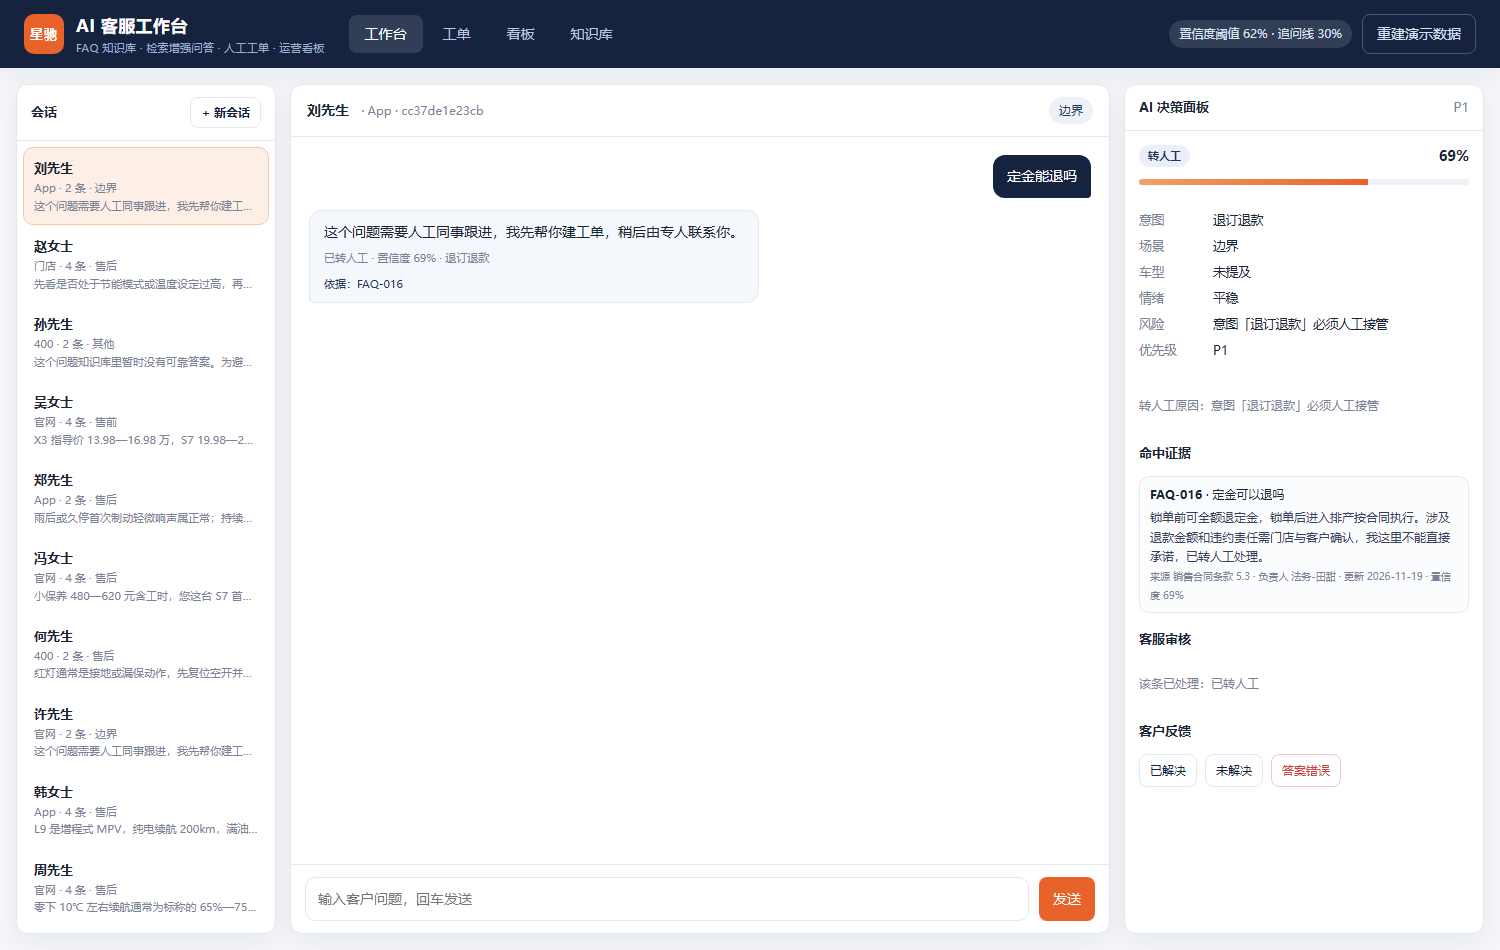
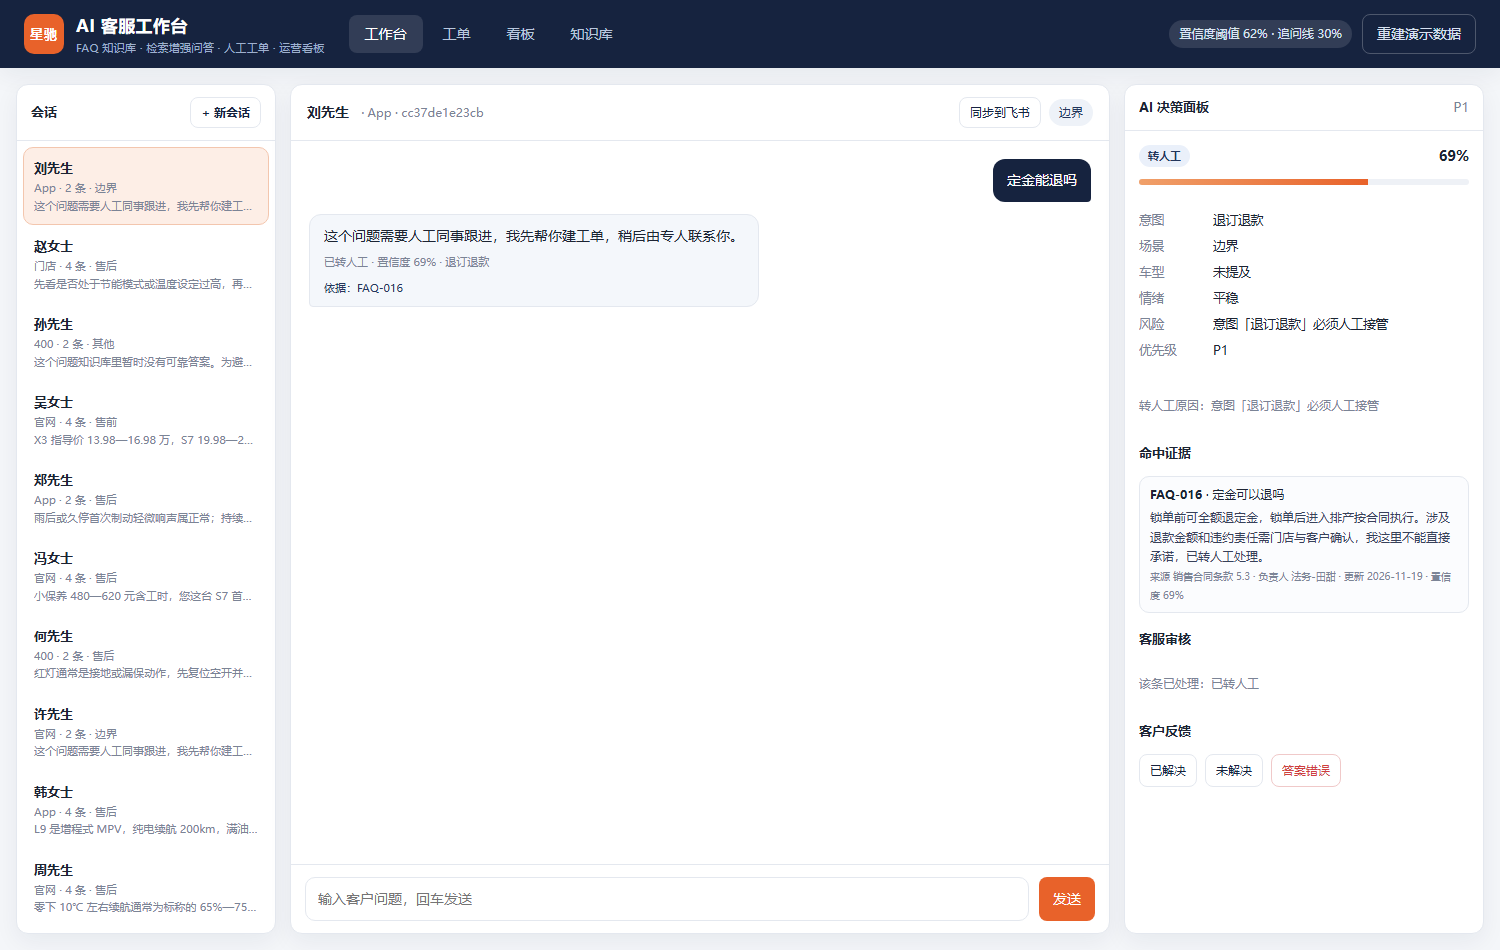
docs: 演示脚本补充飞书同步环节，更新工作台截图

diff --git a/docs/demo-script.md b/docs/demo-script.md
@@ -55,6 +55,14 @@
 
 收尾一句话：「这条链路就是简历里写的『未命中 → 人工处理 → 根因复盘 → FAQ 回写』，代码在 `tickets.py` 的 `create_faq_draft` 和 `publish_faq`。」
 
+## 6. 飞书多维表格（30 秒，可选）
+
+- 打开表：https://my.feishu.cn/base/NNwtbi7R7a5BBlsFWCjc1WaN6ke ，16 个字段、14 条会话；
+- 工作台右上角点「同步到飞书」，选中的会话立刻出现在表里（按「会话ID」去重，不会重复写）；
+- 一句话总结：「本地 SQLite 是主存储，飞书多维表格是团队协作层，客服和运营不用进后台就能看会话画像和工单状态。」
+
+如果飞书打不开或网络不通，这一段可以跳过，不影响前面的演示。
+
 ## 高频追问与回答
 
 **Q：为什么不用大模型直接答？**
@@ -65,6 +73,9 @@ A：现在 69 条用 FTS5 + 覆盖度打分足够；上千条会换 pgvector 做
 
 **Q：怎么衡量它有没有变好？**
 A：三个指标联动看——命中率上升但驳回率也上升，说明检索把不相关条目排上来了；转人工率下降要配合满意度看，否则可能是硬答。
+
+**Q：为什么还要写飞书？**
+A：客服主管不会天天登后台看数据库，他们把多维表格当工作台：会话画像、工单状态、SLA 节点都在表里，还能直接加仪表盘和自动化提醒。系统这边是单向写入，避免两边都能改导致数据打架。
 
 **Q：数据从哪来？**
 A：品牌和车型是虚构的，FAQ 是按真实 4S 店话术手工整理的结构化条目，演示会话走的是真实服务链路，不是写死的假数据。
